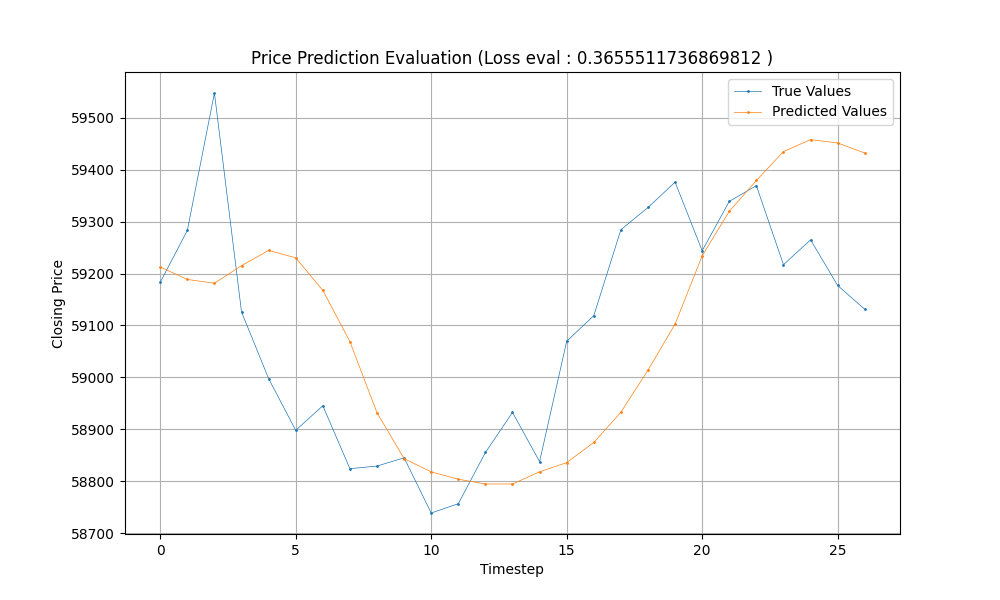
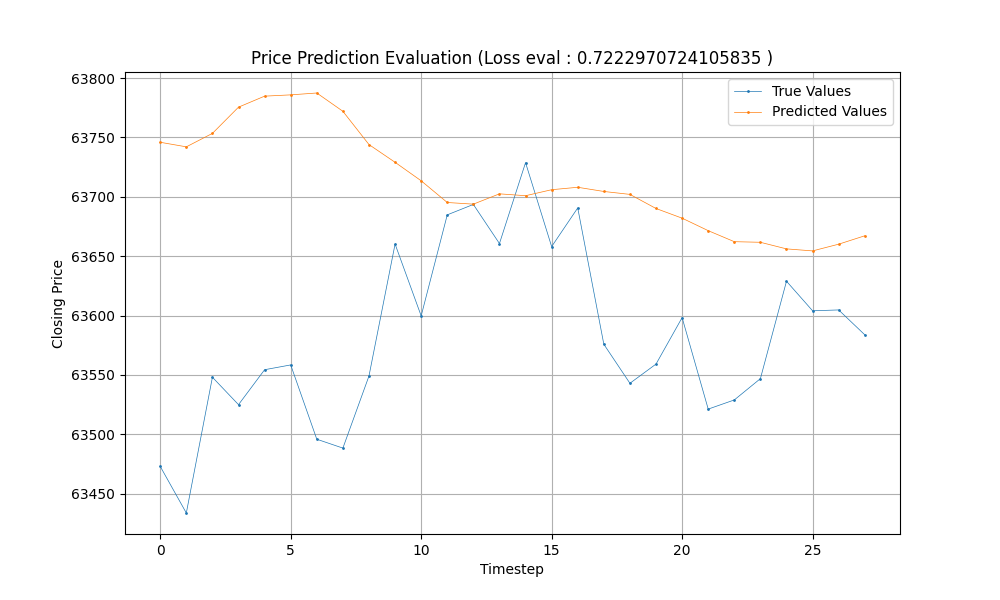
Bettering stateful true model

diff --git a/core/utils.js b/core/utils.js
@@ -13,7 +13,7 @@ function getLogger(){
         },
         categories: {default: {appenders: ['console'], level: 'info'}, ['MainService']: {appenders: ['console'], level: 'info'}}
     });
-    return log4js.getLogger('MainService');
+    return log4js.getLogger('Core');
 }
 
 module.exports = {getLogger}

diff --git a/insights/technical_analysis.py b/insights/technical_analysis.py
@@ -17,7 +17,7 @@ from sklearn.preprocessing import RobustScaler
 from matplotlib import pyplot
 from utils import get_logger
 
-_logger = get_logger(logger_name="Analytics/Technical Analysis")
+_logger = get_logger(logger_name="Insights")
 
 def perform_technical_analysis(historical_candle_data):
     ### Add additional features to candle data (feature engineering)
@@ -33,7 +33,6 @@ class DeepLearning():
         self.data = data
         self.predictor = predictor
         self.model_validation_split = 0.1
-        self.predictor_scaler = RobustScaler()
         self.performance_dir = "insights\\artifacts\\model_artifacts\\performance.csv"
         self.model_config_dir = "insights\\artifacts\\model_artifacts\\TA_model_config.json"
         self.trained_model_dir = "insights\\artifacts\\model_artifacts\\archive\\TA_model.keras"
@@ -69,6 +68,12 @@ class DeepLearning():
         predictor = self.data.pop(self.predictor).to_numpy()
         data = self.data.to_numpy()
         data_normalized, predictor_normalized = self.data_normalisation(data_array=data, predictor_array=predictor)
+
+        # making window_size result in max 32 batches, due to  TODO: keep investigating if this necessary
+        batch_count = (data_normalized.shape[0] - window_size) // 2
+        if batch_count > 32:
+            window_size = data_normalized.shape[0] - 64
+            _logger.info(f"Limiting batch size to 32, with adjusted window size {window_size} due to stateful=True batch count limitation.")
         
         data_rolling, predictor_rolling = [], []
         # Creating rolling window in data. Hence, every 5 data values will point to every 5th predictor value
@@ -81,6 +86,7 @@ class DeepLearning():
         # reshape(number of batches, number of observations in each batch, number of features, number of channels)
         predictor_rolling = predictor_rolling.reshape(-1, 1, 1, 1)
         data_rolling = data_rolling.reshape(-1, data_rolling.shape[1], data_rolling.shape[2], 1)
+        _logger.info(f"Post rolling data shape {data_rolling.shape} and {predictor_rolling.shape}")
         # Making batch count even, to allow 0.5 split to work for stateful=true
         if data_rolling.shape[0] % 2 != 0:
             data_rolling = data_rolling[:-1]
@@ -98,7 +104,9 @@ class DeepLearning():
         :param data_array: the numpy array of data
         :param predictor_array: the numpy array of the predictor data
         """
-        predictor_normalized = self.predictor_scaler.fit_transform(predictor_array.reshape(-1, 1))
+        predictor_array = predictor_array.reshape(-1, 1)
+        self.predictor_transformer = RobustScaler().fit(predictor_array)
+        predictor_normalized = self.predictor_transformer.transform(predictor_array)
         data_normalized = RobustScaler().fit_transform(data_array)
         return data_normalized, predictor_normalized
 
@@ -108,7 +116,7 @@ class DeepLearning():
         :param prediction_array: the array of predicted values
         :return the denormalised predicted values
         """
-        return self.predictor_scaler.inverse_transform(prediction_array.reshape(1, -1)).flatten()
+        return self.predictor_transformer.inverse_transform(prediction_array.reshape(1, -1)).flatten()
 
     def model_compilation(self):
         """
@@ -117,19 +125,19 @@ class DeepLearning():
         self.model = Sequential()
         self.model.add(Input(shape=(self.train_data.shape[1], self.train_data.shape[2], 1), batch_size=self.train_data.shape[0])) # Input shape of (<sample_size/observations>=None, <time_steps>, <features>, <channel>=1). sample_size=none allows for flexible sample size. 1 as time series is only on 1 channel
                  
-        self.model.add(Dense(64, activation='linear'))
+        self.model.add(Dense(64, activation='elu'))
 
         # In order for stateful=True to work, train and test data batch counts have to be the same. Ensure they are in data preparation
-        self.model.add(ConvLSTM1D(filters=200, kernel_size=20, activation='tanh', padding='same', return_sequences=True, stateful=True))
+        self.model.add(ConvLSTM1D(filters=300, kernel_size=20, activation='elu', padding='same', return_sequences=True, stateful=True))
         self.model.add(BatchNormalization())
-        self.model.add(ConvLSTM1D(filters=200, kernel_size=20, activation='tanh', padding='same', go_backwards=False, stateful=False))
+        self.model.add(ConvLSTM1D(filters=200, kernel_size=15, activation='relu', padding='same', go_backwards=True, stateful=True))
 
         # Max pooling layer to reduce spatial dimensions, due to padding in ConvLSTM1D
-        self.model.add(MaxPooling1D(pool_size=(self.train_data.shape[1],), strides=self.train_data.shape[0]))
+        self.model.add(MaxPooling1D(pool_size=(self.train_data.shape[2],), strides=self.train_data.shape[0]))
         self.model.add(Dropout(0.5))
 
-        self.model.add(Dense(64, activation='linear'))
-        self.model.add(Dense(1, activation='linear'))
+        self.model.add(Dense(64, activation='relu'))
+        self.model.add(Dense(1, activation='relu'))
 
         self.model.compile(optimizer=Adam(learning_rate=0.001), loss=Huber())
         self.model.summary() 
@@ -231,9 +239,9 @@ class FeatureEngineering():
         self.initial_indicators_df.set_index('timestamp', inplace=True)
         # self.initial_indicators_df.bfill(inplace=True)
         self.initial_indicators_df.replace(0, numpy.nan, inplace=True)
-        self.initial_indicators_df.fillna(method='bfill', inplace=True)
+        self.initial_indicators_df.bfill(inplace=True)
 
-    def correlation_analysis(self, threshold=0.61):
+    def correlation_analysis(self, percentile=80):
         """
         Performs correlation on the features and drops those above the defined threshold
         :param int threshold: the correlation threshold above which a column is dropped (default=0.61)
@@ -241,7 +249,9 @@ class FeatureEngineering():
         """
         correlation_matrix = self.initial_indicators_df.corr().abs()
         average_correlation = correlation_matrix.mean()
-        columns_to_remove = average_correlation[average_correlation >= threshold].index
+        dynamic_threshold = numpy.percentile(average_correlation, percentile)
+        print(f"This dynamic threshold: {dynamic_threshold}")
+        columns_to_remove = average_correlation[average_correlation >= dynamic_threshold].index
         columns_to_remove = columns_to_remove.drop('close', errors='ignore')
         selected_features = self.initial_indicators_df.drop(columns=columns_to_remove)
         _logger.info(f"Removing the following overcorrelating features: {columns_to_remove.to_list()}. Remaining predictive feature count: [{selected_features.shape[1] - 1}]")

diff --git a/insights/transceiver.py b/insights/transceiver.py
@@ -9,7 +9,7 @@ from utils import get_logger
 from time import sleep
 from technical_analysis import perform_technical_analysis
 
-_logger = get_logger(logger_name="Analytics/Technical Analysis")
+_logger = get_logger(logger_name="Insights")
 
 communicationFileAddress = "ipc:///config/communication.icp"
 
